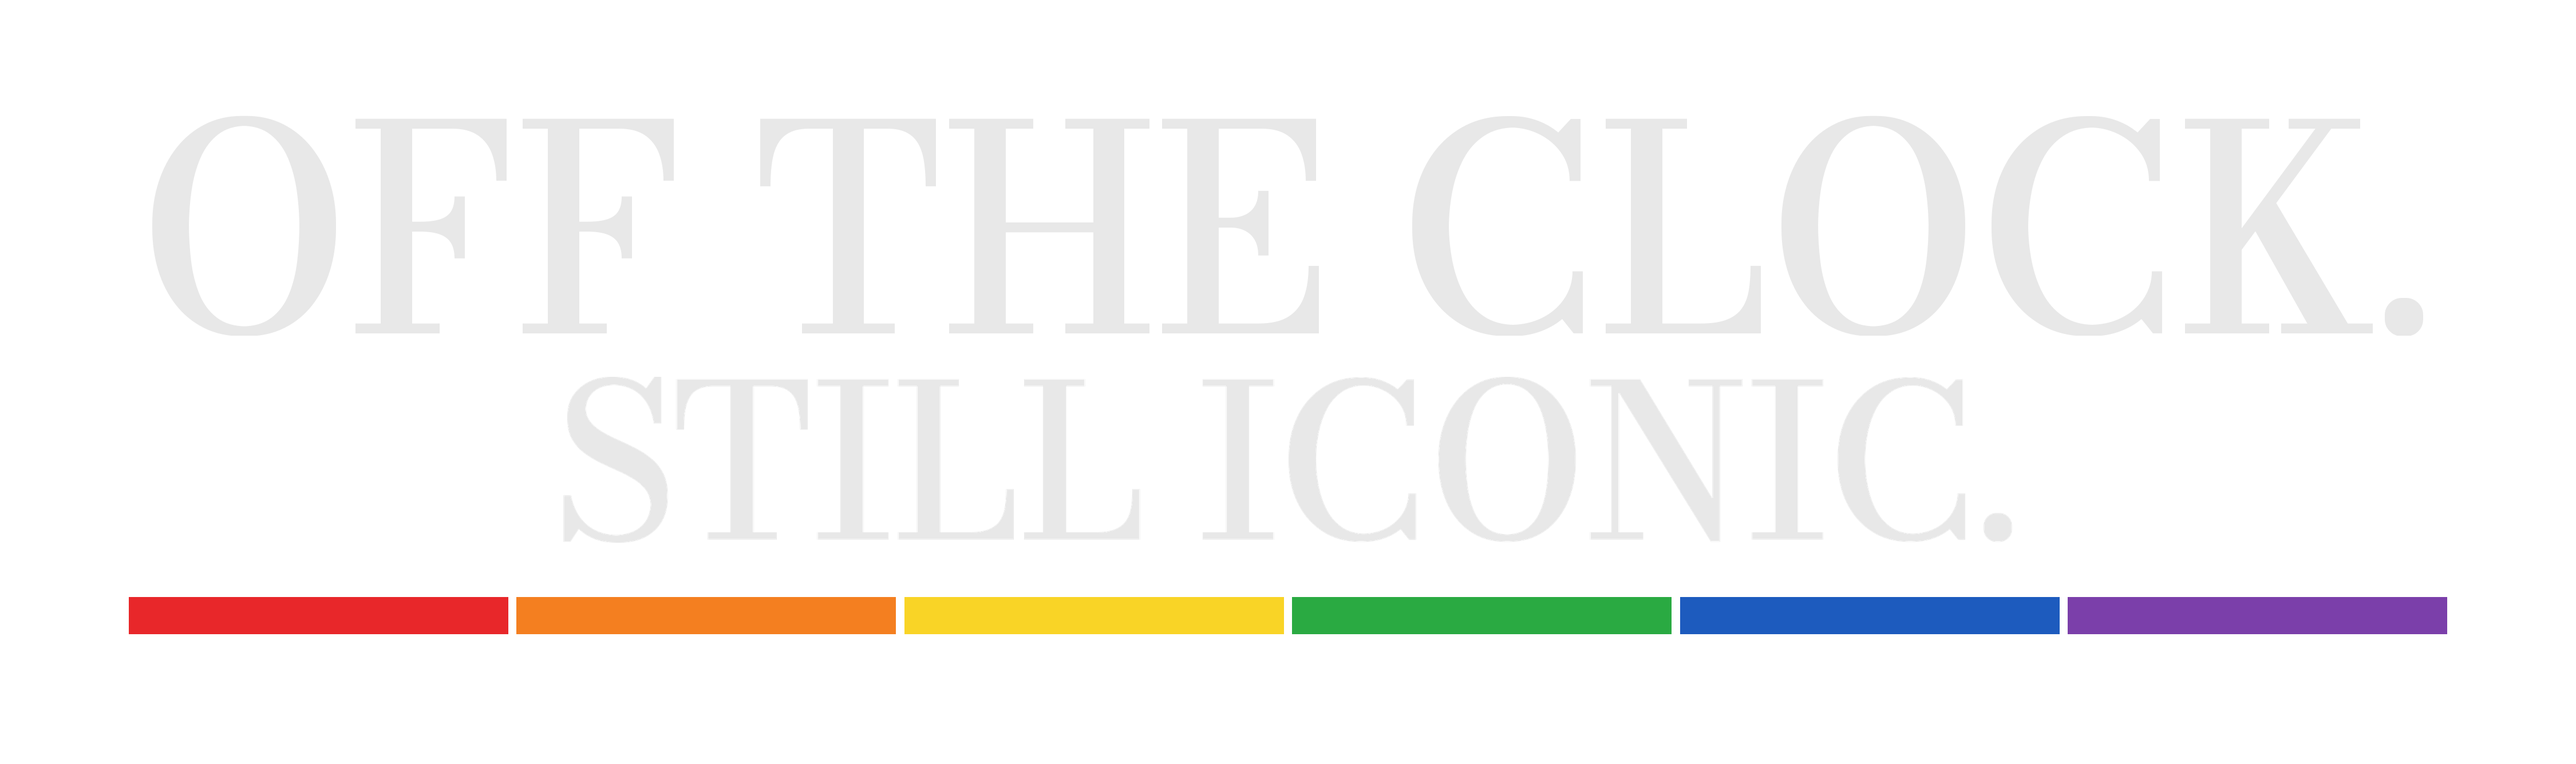
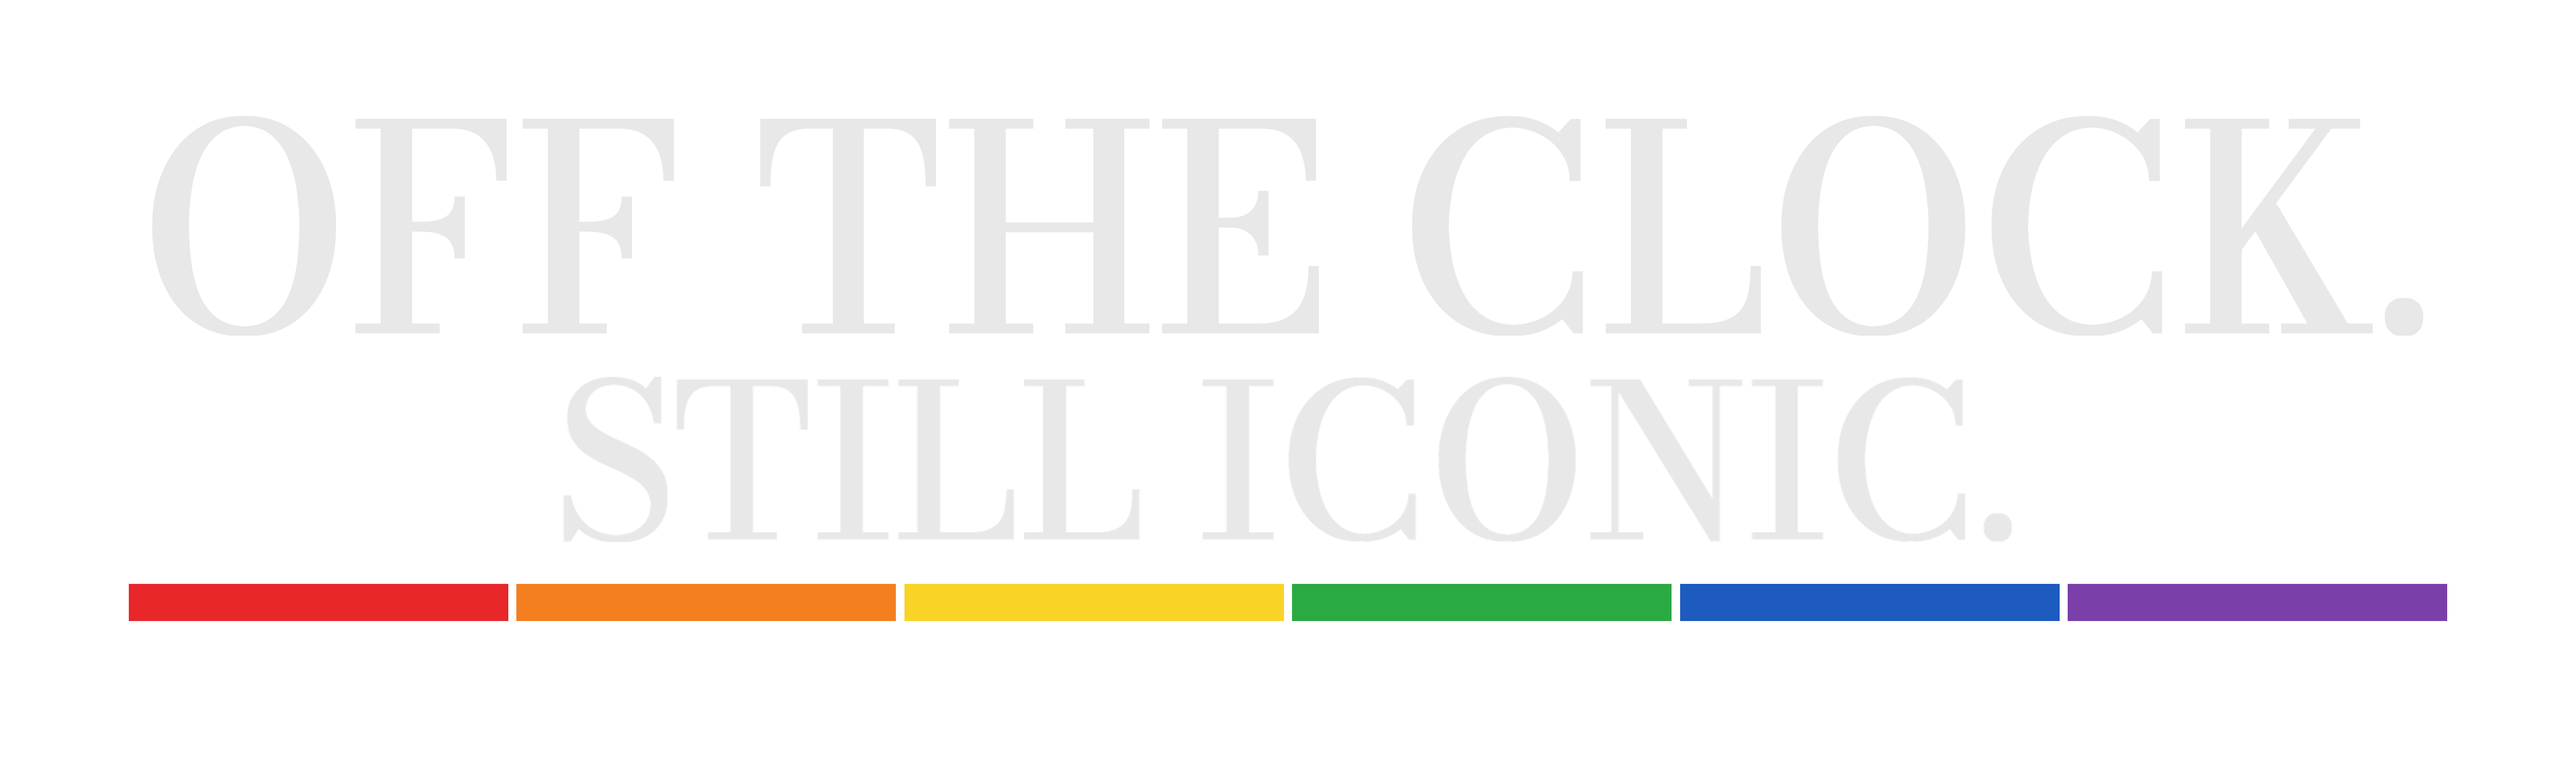
Close Off The Clock's bar gap, all three designs now even
Claude-Session: https://claude.ai/code/session_01VwDCHt8ADP2wXBC2gUM4Zh

Changed region(s): [[0.0311, 0.7672, 0.9644, 0.8286]]

diff --git a/CHANGELOG.md b/CHANGELOG.md
@@ -127,3 +127,5 @@ Why: Maurice: the gap was still too wide and inconsistent between designs; same 
 Why: Maurice flagged the gap, confirmed at full resolution before committing.
 2026-09-26 Closed Please Hold's bottom gap (line 2 to bar) too, was 0.325 vs Code It's 0.19. Both gaps now 0.193, symmetric, matching the family. Pixel-shift only.
 Why: top gap alone wasn't enough, Maurice caught the bottom gap still off.
+2026-09-26 Closed Off The Clock's bar gap too (was 0.25, now 0.193), matching Code It and Please Hold. All three designs now sit at the same top-gap and bar-gap ratio, ~0.19-0.193. Pixel-shift only.
+Why: Maurice wants every gap even across designs, no exceptions.
